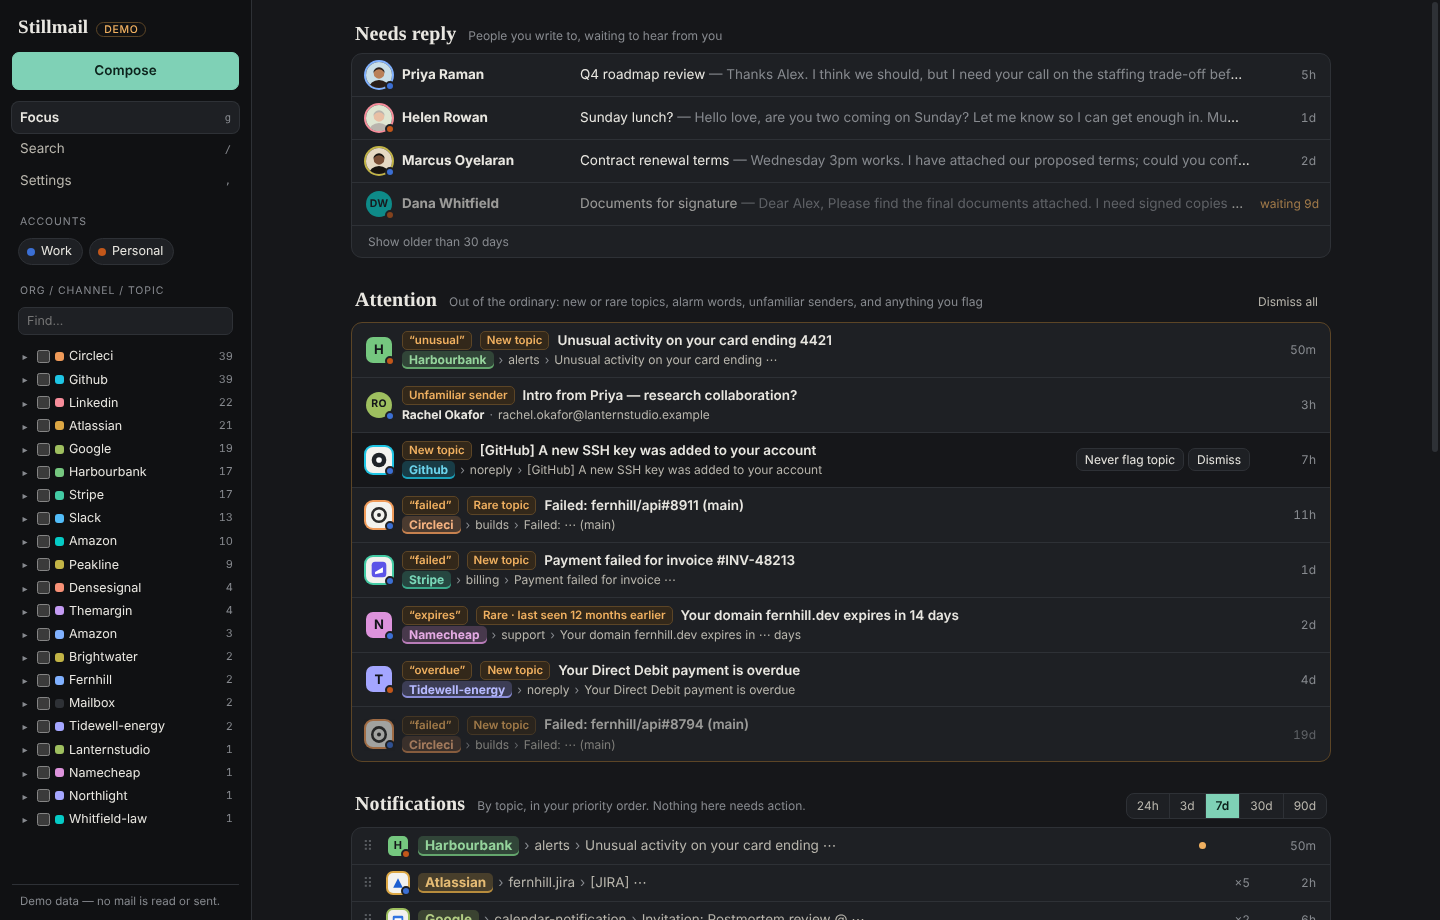
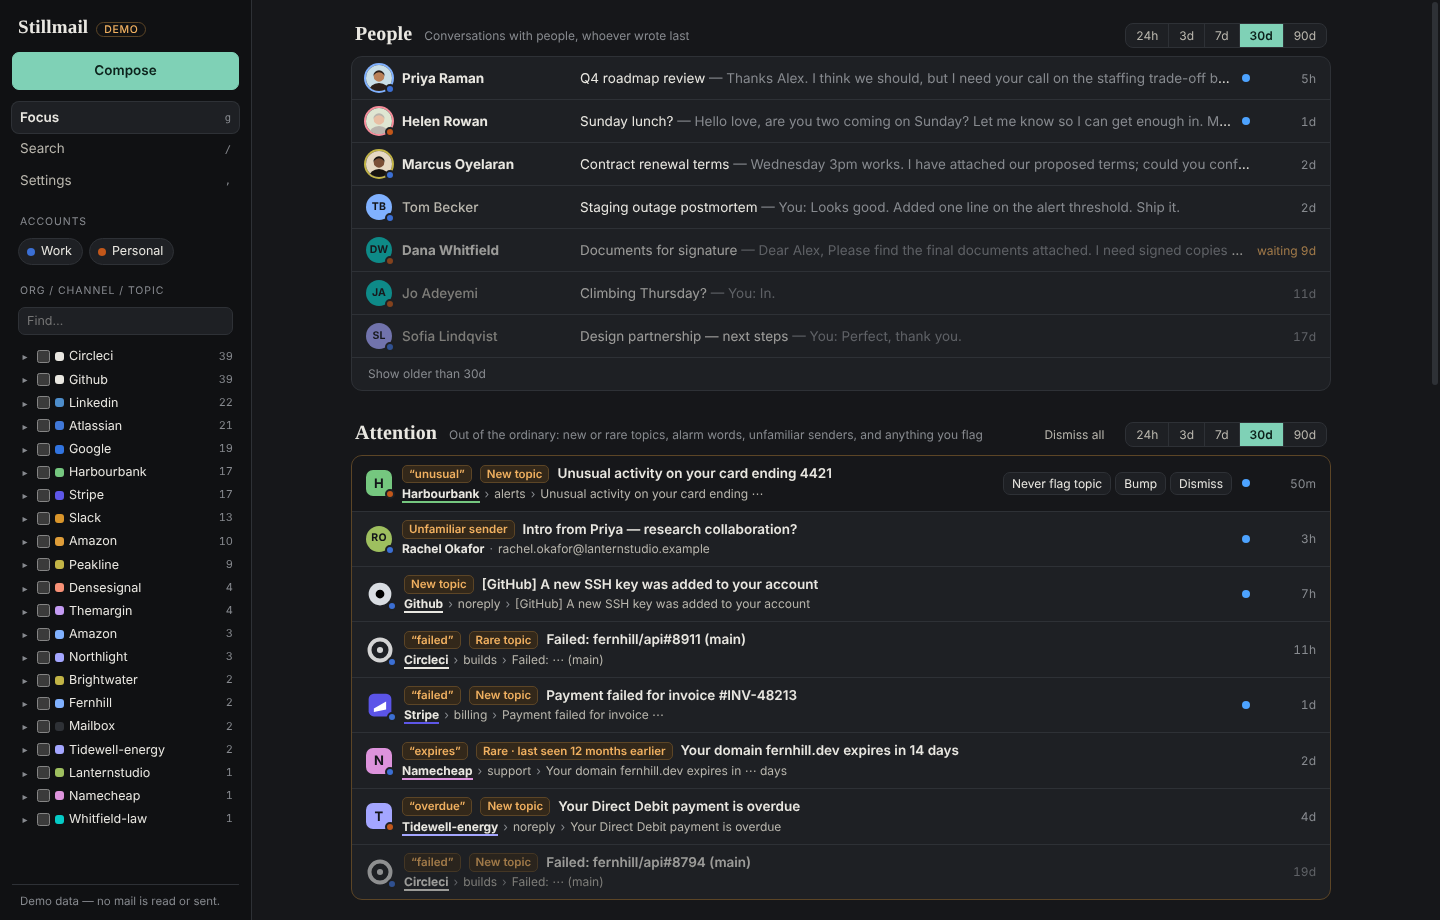
Rename Needs reply to People and list every conversation with a person
The section showed only threads where a person had written last, so mail
you sent (including a note to yourself) never appeared. People now lists
every conversation with a person by its latest message from them or from
you, newest first. Rows where they wrote last keep the 'waiting' age; rows
where you wrote last are shown lighter with 'You:'. Mail you send only to
machines, and automatic replies, do not count. Dismiss hides a conversation
until it moves on.

Sender kinds are labelled Person and Machine instead of Important and
Notifications throughout.

Claude-Session: https://claude.ai/code/session_018txKJ9YsMYDCJaE327hDMP

diff --git a/src/renderer/styles.css b/src/renderer/styles.css
@@ -120,6 +120,7 @@ a { color: var(--accent); }
 .row.old > :not(.row-actions) { opacity: .45; }
 .row .who { width: 168px; flex: none; font-weight: 650; overflow: hidden; text-overflow: ellipsis; white-space: nowrap; }
 .row .subj { flex: 1; min-width: 0; overflow: hidden; text-overflow: ellipsis; white-space: nowrap; }
+.row .who.mine { font-weight: 500; color: var(--ink-2); }
 .row .snip { color: var(--muted); }
 .row .age { flex: none; min-width: 56px; text-align: right; color: var(--muted); font-size: 12px; font-variant-numeric: tabular-nums; white-space: nowrap; }
 .row .wait { color: var(--warn); }

diff --git a/README.md b/README.md
@@ -31,9 +31,9 @@ Stillmail requests read-only access to mail and contacts, plus permission to sen
 
 ## How it works
 
-**Needs reply.** Any address you have ever written to is an important sender. Automatic replies (such as a vacation responder) do not count, and a mass sender (list headers or a no-reply style address) only counts once you have written to it at least twice and at least once for every ten emails it has sent. A conversation appears here when the latest message is from one of them and you have not answered since. Replying removes it; so does *No reply needed*.
+**People.** Every conversation with a person, newest first, whoever wrote last: mail from people, your replies, and mail you start (including notes to yourself). A conversation where they wrote last shows how long it has been waiting once it is more than a few days old; one where you wrote last is shown lighter with "You:". *Dismiss* removes a conversation until something new arrives in it. A sender is a **Person** if you have ever written to them. Automatic replies (such as a vacation responder) do not count, and a mass sender (list headers or a no-reply style address) only counts once you have written to it at least twice and at least once for every ten emails it has sent.
 
-**Notification channels.** An address that has sent you several emails (3 by default) and never had a reply is a notification channel. So is anything with bulk-mail headers or a no-reply style address. You can override any address in the reader or in Settings.
+**Machines.** An address that has sent you several emails (3 by default) and never had a reply is a **Machine**: a notification channel. So is anything with bulk-mail headers or a no-reply style address. You can override any address in the reader or in Settings.
 
 **Topics.** Within a channel, subjects are reduced to a pattern (ids, dates and amounts are collapsed) and grouped, so `Your order #123 has shipped` and `Your order #456 has shipped` are one topic. Shared `[tags]`, single varying words, and common prefixes are also grouped. A sender whose subject changes with every issue, such as a newsletter, is treated as a single topic named after the address alone; this is detected automatically, and *One topic for this sender* forces it for any address. When that is not enough, *Define topic by pattern…* lets you group with a regular expression. Topics are shown as `Org › channel › topic` with the time of the latest email, over the period chosen at the top of the panel. Topics are listed by their most recent email, newest first.
 
@@ -48,11 +48,11 @@ Dismiss an item, or choose *Never flag topic* if a topic is always noise. Channe
 
 **Faces and colours.** People are circles and organisations are rounded squares. A person shows their contact photo when your Google contacts have one, otherwise their initials. A notification channel shows its organisation's site icon at full size with no backing tile, otherwise its initial on a coloured square. The organisation's name is underlined in its brand colour, picked automatically as the dominant colour of the icon that is not near white, near black or grey; a monochrome logo gets a white underline (and a dark logo on a transparent background is inverted so it shows on the dark theme). An organisation with no icon gets a colour assigned from a fixed palette, which never changes. People at a company share its colour, while people on public mailboxes (gmail.com and similar) each get their own. Icons are fetched from Google's favicon service and cached; photos and icons can be turned off in Settings.
 
-**Unread dot.** Rows in Needs reply and Attention show a blue dot while Gmail still has the message unread and you have not opened it here. Reading it on your phone or in Gmail clears the dot within a minute; opening it in Stillmail clears it here only, because Stillmail never changes anything in Gmail. There is still no unread count.
+**Unread dot.** Rows in People and Attention show a blue dot while Gmail still has the message unread and you have not opened it here. Reading it on your phone or in Gmail clears the dot within a minute; opening it in Stillmail clears it here only, because Stillmail never changes anything in Gmail. There is still no unread count.
 
-**Bump.** Any row in Needs reply, Attention or Notifications can be bumped (row button, reader button, or `b`). It jumps to the top, and its bump date replaces its received date for ordering and fading, so it stays on the list while untouched rows slip away. Bump again to keep it there; newer mail on a bumped topic simply takes over. The age shown is still the real one, with an ↑ marker.
+**Bump.** Any row in People, Attention or Notifications can be bumped (row button, reader button, or `b`). It jumps to the top, and its bump date replaces its received date for ordering and fading, so it stays on the list while untouched rows slip away. Bump again to keep it there; newer mail on a bumped topic simply takes over. The age shown is still the real one, with an ↑ marker.
 
-**Time tabs.** Needs reply, Attention and Notifications each have their own 24h / 3d / 7d / 30d / 90d tabs, remembered separately. Needs reply and Attention use the bump date where there is one, and anything you flagged yourself stays in Attention whatever the tab. Needs reply keeps a *Show older* link so nobody is lost.
+**Time tabs.** People, Attention and Notifications each have their own 24h / 3d / 7d / 30d / 90d tabs, remembered separately. People and Attention use the bump date where there is one, and anything you flagged yourself stays in Attention whatever the tab. People keeps a *Show older* link so nobody is lost.
 
 **Links.** Clicking a link in an email opens the page in a browser pane to the right of the message, with back, forward, reload and *Open in default browser*. ⌘-click (Ctrl-click on Windows and Linux) sends a link straight to your default browser instead. The pane is an isolated web page with its own cookies; it has no access to your mail and no camera, microphone, location or notification permissions. `mailto:` links start a new message.
 
@@ -70,7 +70,7 @@ Dismiss an item, or choose *Never flag topic* if a topic is always noise. Channe
 
 **Search.** Narrow by sender first: pick one or more domains, then exact addresses, then type text. Counts update as you go. Quick search covers subjects and previews of synced mail instantly; press Enter to run the same query against full message text on Gmail.
 
-**Desktop notifications** fire only for important senders and escalated mail.
+**Desktop notifications** fire only for mail from people and escalated mail.
 
 ## Keyboard
 
@@ -82,7 +82,7 @@ Dismiss an item, or choose *Never flag topic* if a topic is always noise. Channe
 | `,` | Settings |
 | `r` / `a` / `f` | Reply / reply all / forward the open conversation |
 | `b` | Bump the open conversation (or its topic) to the top of its list |
-| `e` | Dismiss or mark no reply needed, and close |
+| `e` | Dismiss the open conversation from its list, and close |
 | `⌘F` / `Ctrl+F` | Find in the open conversation (otherwise go to Search) |
 | `Esc` | Close reader or dialog |
 | `Ctrl/⌘ + Enter` | Send |
